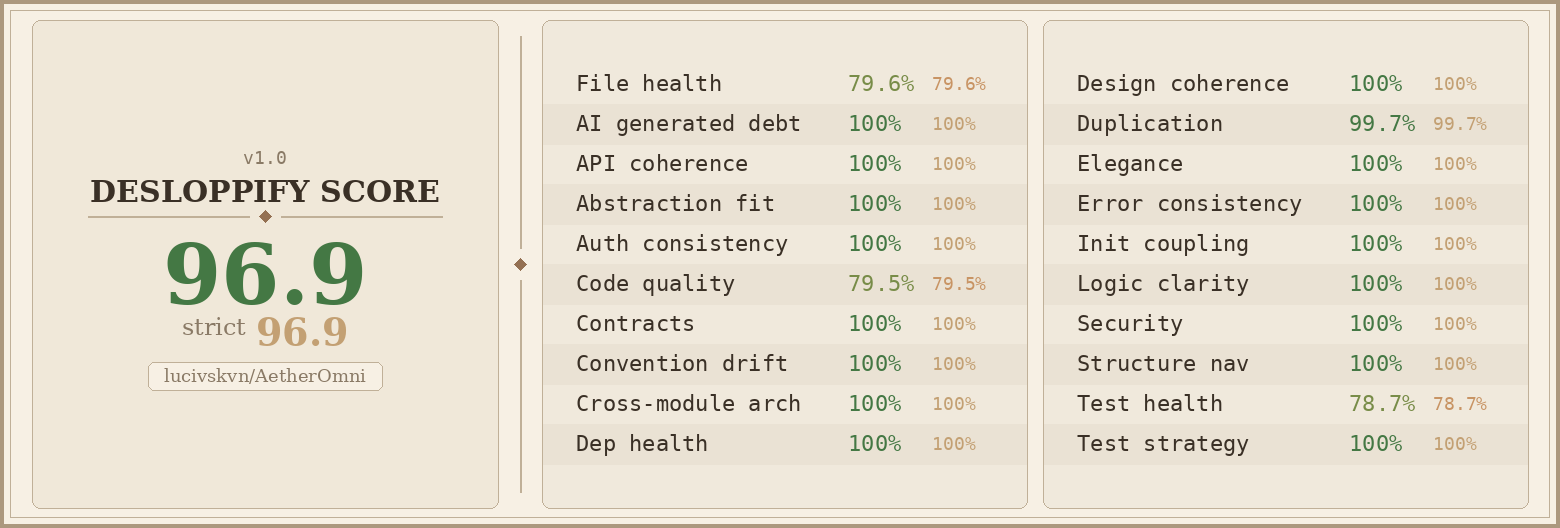
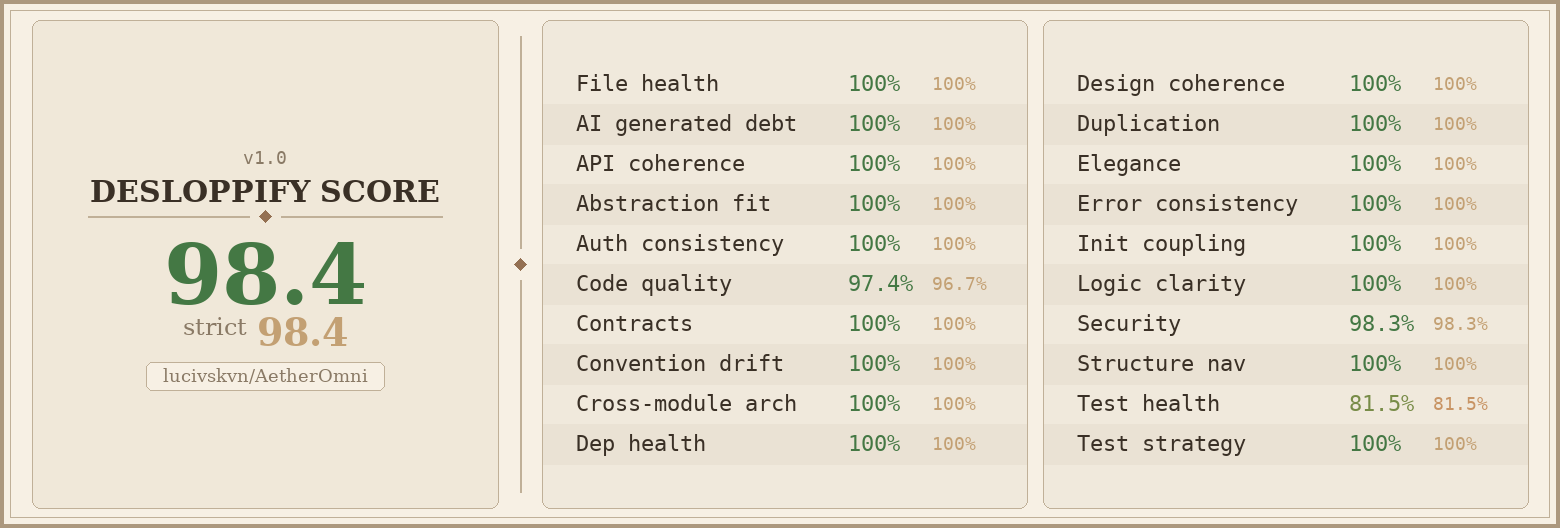
style: convert drop-zone to semantic button to resolve SonarQube accessibility checks

diff --git a/extractor/templates/extractor/dashboard.html b/extractor/templates/extractor/dashboard.html
@@ -84,11 +84,11 @@
             <form id="upload-form" action="{% url 'upload_document' %}" method="post" enctype="multipart/form-data">
                 {% csrf_token %}
                 <input type="file" id="file-input" name="file" accept=".pdf,.png,.jpg,.jpeg,.csv,.txt" class="visually-hidden" multiple>
-                <div id="drop-zone" class="upload-zone" tabindex="0" role="button" aria-label="Ingest and upload documents and files">
+                <button type="button" id="drop-zone" class="upload-zone" aria-label="Ingest and upload documents and files">
                     <i data-lucide="cloud-lightning"></i>
                     <div class="upload-title">Ingest Documents & Files</div>
                     <div class="upload-subtitle">Drag & drop files or click here to upload (Supports batch uploads of PDF, JPEG, PNG, CSV, TXT up to 30MB)</div>
-                </div>
+                </button>
             </form>
         </div>
 

diff --git a/static/js/main.js b/static/js/main.js
@@ -342,13 +342,7 @@ function initializeDragAndDrop() {
 
     dropZone.addEventListener('click', () => fileInput.click());
 
-    // Keyboard accessibility for interactive div container
-    dropZone.addEventListener('keydown', (e) => {
-        if (e.key === 'Enter' || e.key === ' ') {
-            e.preventDefault();
-            fileInput.click();
-        }
-    });
+
 
     fileInput.addEventListener('change', () => {
         if (fileInput.files.length > 0) {

diff --git a/static/css/main.css b/static/css/main.css
@@ -589,6 +589,7 @@ dialog.settings-dialog .dialog-footer {
 }
 
 .upload-zone {
+    width: 100%;
     padding: 32px 24px;
     text-align: center;
     border: 2px dashed rgba(255,255,255,0.15);
@@ -600,6 +601,9 @@ dialog.settings-dialog .dialog-footer {
     flex-direction: column;
     align-items: center;
     gap: 12px;
+    font-family: inherit;
+    color: inherit;
+    outline: none;
 }
 
 .upload-zone:hover, .upload-zone.dragover {
